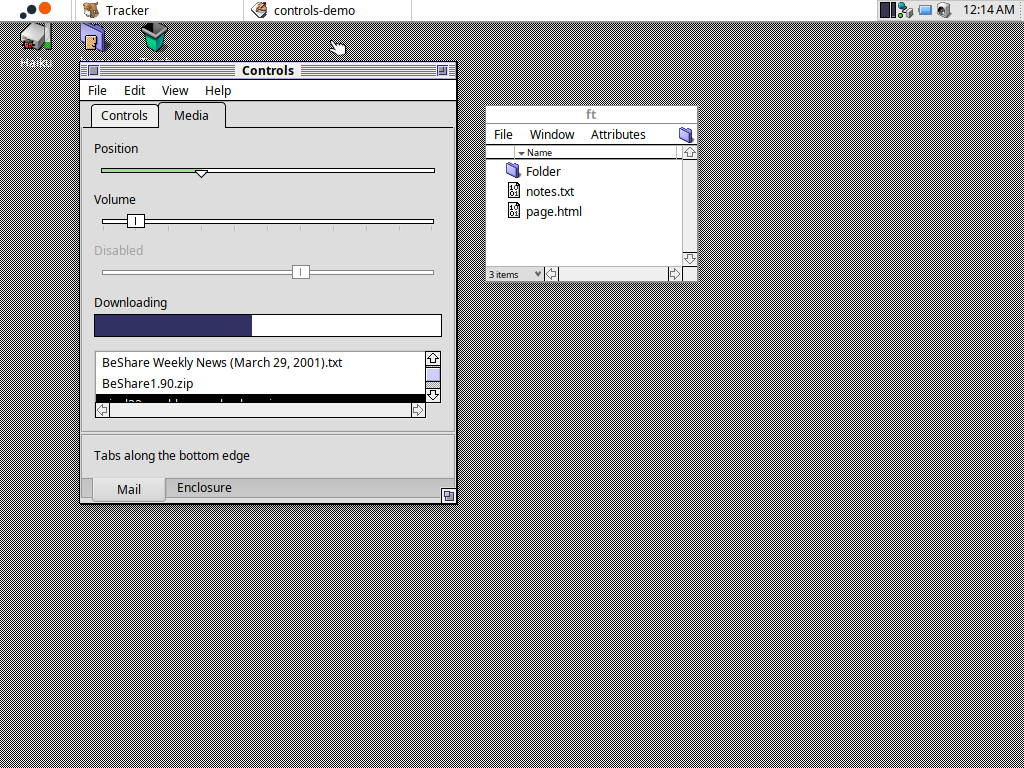
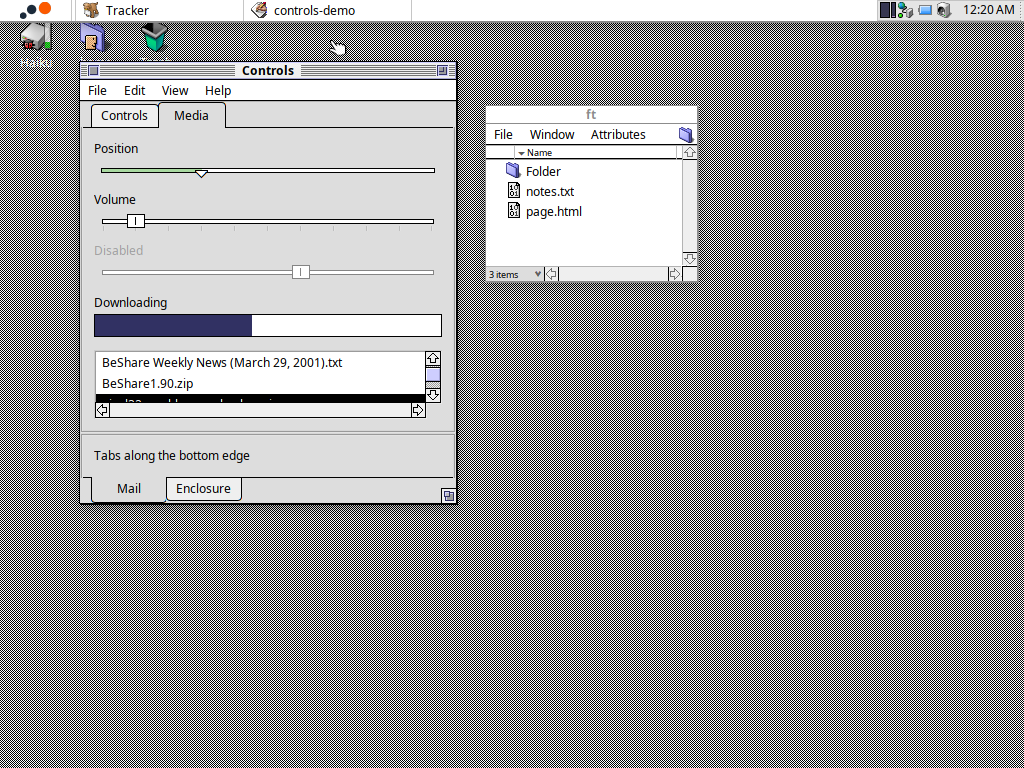
System 7: tabs on every side drawn like the top ones
Bottom, left and right tabs fell back to Haiku's own; they now have the same
black outline, rounded away from the page and open towards it.

Claude-Session: https://claude.ai/code/session_01PoWUVRRtq76Ffr3wkNXK5V

Changed region(s): [[0.0625, 0.5938, 0.4375, 0.6562], [0.9375, 0.0, 0.9688, 0.0312]]

diff --git a/src/system7/System7ControlLook.cpp b/src/system7/System7ControlLook.cpp
@@ -874,44 +874,120 @@ System7ControlLook::DrawGroupFrame(BView* view, BRect& rect,
 //	#pragma mark - tabs
 
 
-//!	A black line along the page's top that the tabs sit on.
-void
-System7ControlLook::DrawTabFrame(BView* view, BRect& rect,
-	const BRect& updateRect, const rgb_color& base, uint32 flags,
-	uint32 borders, border_style borderStyle, uint32 side)
+//!	The page's edge on the tabs' side, as the rectangle's row or column.
+static BRect
+page_edge(const BRect& r, uint32 side)
 {
-	if (side != BTabView::kTopSide) {
-		HaikuControlLook::DrawTabFrame(view, rect, updateRect, base, flags,
-			borders, borderStyle, side);
-		return;
+	switch (side) {
+		case BTabView::kBottomSide:
+			return BRect(r.left, r.top, r.right, r.top);
+		case BTabView::kLeftSide:
+			return BRect(r.right, r.top, r.right, r.bottom);
+		case BTabView::kRightSide:
+			return BRect(r.left, r.top, r.left, r.bottom);
+		default:
+			return BRect(r.left, r.bottom, r.right, r.bottom);
 	}
-	if (!ShouldDraw(view, rect, updateRect))
-		return;
-
-	view->PushState();
-	fill_line(view, rect.left, rect.top, rect.right, rect.bottom, base);
-	if (borderStyle != B_NO_BORDER)
-		fill_line(view, rect.left, rect.bottom, rect.right, rect.bottom, kBlack);
-	view->PopState();
 }
 
 
-//!	A tab: a black outline with rounded top corners round its face, open below.
+/*!	A tab: a black outline round its face, with its corners rounded away from
+	the page and open towards it. One behind the chosen tab is pushed two pixels
+	back from the page, and sits on its line.
+*/
 static void
-draw_tab(BView* view, const BRect& r, const rgb_color& face, bool open)
+draw_tab(BView* view, const BRect& rect, uint32 side, const rgb_color& face,
+	bool open)
 {
+	BRect r(rect);
+	BRect shape(rect);
+	const float back = open ? 0 : 2;
+	switch (side) {
+		case BTabView::kBottomSide:
+			r.bottom -= back;
+			shape = BRect(r.left, r.top - 4, r.right, r.bottom);
+			break;
+		case BTabView::kLeftSide:
+			r.left += back;
+			shape = BRect(r.left, r.top, r.right + 4, r.bottom);
+			break;
+		case BTabView::kRightSide:
+			r.right -= back;
+			shape = BRect(r.left - 4, r.top, r.right, r.bottom);
+			break;
+		default:
+			r.top += back;
+			shape = BRect(r.left, r.top, r.right, r.bottom + 4);
+			break;
+	}
+
 	view->PushState();
+	view->ClipToRect(rect);
 	view->SetDrawingMode(B_OP_ALPHA);
 	view->SetBlendingMode(B_PIXEL_ALPHA, B_ALPHA_OVERLAY);
-	const BRect shape(r.left, r.top, r.right, r.bottom + 4);
 	view->SetHighColor(kBlack);
 	view->FillRoundRect(shape, kButtonRadius, kButtonRadius);
 	view->SetHighColor(face);
 	view->FillRoundRect(shape.InsetByCopy(1, 1), kButtonRadius - 1,
 		kButtonRadius - 1);
 	view->PopState();
-	if (!open)
-		fill_line(view, r.left, r.bottom, r.right, r.bottom, kBlack);
+
+	if (!open) {
+		const BRect edge = page_edge(rect, side);
+		fill_line(view, edge.left, edge.top, edge.right, edge.bottom, kBlack);
+	}
+}
+
+
+//!	Where a tab's label goes: inside its outline, a little away from the page.
+static void
+inset_tab(BRect& rect, uint32 side)
+{
+	switch (side) {
+		case BTabView::kBottomSide:
+			rect.top += 1;
+			rect.bottom -= 3;
+			rect.left += 4;
+			rect.right -= 4;
+			break;
+		case BTabView::kLeftSide:
+			rect.left += 3;
+			rect.right -= 1;
+			rect.top += 4;
+			rect.bottom -= 4;
+			break;
+		case BTabView::kRightSide:
+			rect.left += 1;
+			rect.right -= 3;
+			rect.top += 4;
+			rect.bottom -= 4;
+			break;
+		default:
+			rect.top += 3;
+			rect.bottom -= 1;
+			rect.left += 4;
+			rect.right -= 4;
+			break;
+	}
+}
+
+
+//!	A black line along the page's edge that the tabs sit on.
+void
+System7ControlLook::DrawTabFrame(BView* view, BRect& rect,
+	const BRect& updateRect, const rgb_color& base, uint32 flags,
+	uint32 borders, border_style borderStyle, uint32 side)
+{
+	if (!ShouldDraw(view, rect, updateRect))
+		return;
+
+	view->PushState();
+	fill_line(view, rect.left, rect.top, rect.right, rect.bottom, base);
+	if (borderStyle != B_NO_BORDER) {
+		const BRect edge = page_edge(rect, side);
+		fill_line(view, edge.left, edge.top, edge.right, edge.bottom, kBlack);
+	}
+	view->PopState();
 }
 
 
@@ -921,53 +997,33 @@ System7ControlLook::DrawActiveTab(BView* view, BRect& rect,
 	uint32 borders, uint32 side, int32 index, int32 selected, int32 first,
 	int32 last)
 {
-	if (side != BTabView::kTopSide) {
-		HaikuControlLook::DrawActiveTab(view, rect, updateRect, base, flags,
-			borders, side, index, selected, first, last);
-		return;
-	}
-
 	if (ShouldDraw(view, rect, updateRect)) {
 		view->PushState();
 		view->ClipToRect(rect);
 		fill_line(view, rect.left, rect.top, rect.right, rect.bottom, base);
-		draw_tab(view, rect, base, true);
+		draw_tab(view, rect, side, base, true);
 		view->PopState();
 	}
 
-	rect.top += 3;
-	rect.bottom -= 1;
-	rect.left += 4;
-	rect.right -= 4;
+	inset_tab(rect, side);
 }
 
 
-//!	A tab behind the chosen one is lower and white, and sits on the line.
 void
 System7ControlLook::DrawInactiveTab(BView* view, BRect& rect,
 	const BRect& updateRect, const rgb_color& base, uint32 flags,
 	uint32 borders, uint32 side, int32 index, int32 selected, int32 first,
 	int32 last)
 {
-	if (side != BTabView::kTopSide) {
-		HaikuControlLook::DrawInactiveTab(view, rect, updateRect, base, flags,
-			borders, side, index, selected, first, last);
-		return;
-	}
-
 	if (ShouldDraw(view, rect, updateRect)) {
 		view->PushState();
 		view->ClipToRect(rect);
 		fill_line(view, rect.left, rect.top, rect.right, rect.bottom, base);
-		draw_tab(view, BRect(rect.left, rect.top + 2, rect.right, rect.bottom),
-			kTrack, false);
+		draw_tab(view, rect, side, kTrack, false);
 		view->PopState();
 	}
 
-	rect.top += 3;
-	rect.bottom -= 1;
-	rect.left += 4;
-	rect.right -= 4;
+	inset_tab(rect, side);
 }
 
 
